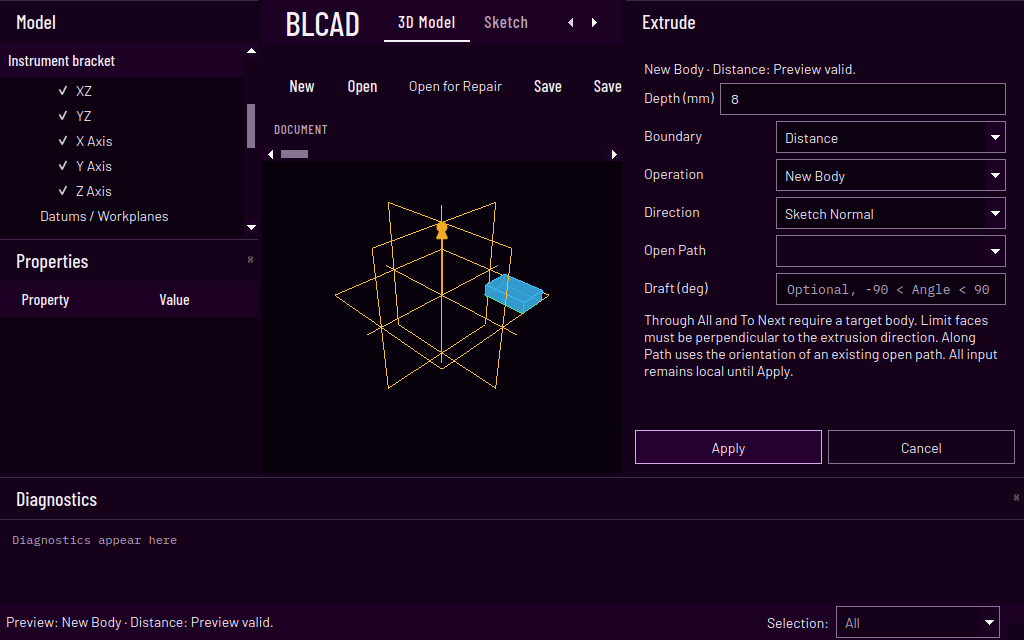
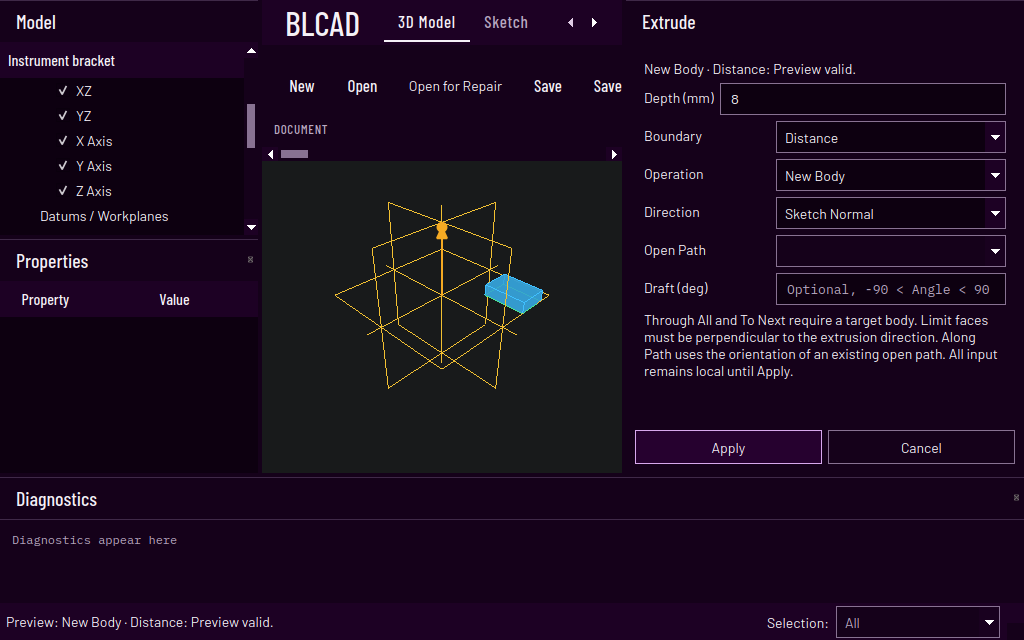
fix(gui): use charcoal gray behind the 3D model
Set the shared native/offscreen canvas background to the requested
#181a1b swatch. Update the existing color contract and native captures.
The sole runtime change is the canvas color constant.

Validation: build all five GUI targets; focused offscreen appearance,
viewport and modeling workflow (10 passed, one expected native-only skip,
879 assertions); native Qt/OCCT (11 cases, 886 assertions); exact rendered
RGB checks on both backends; separate native startup (timeout 124).

Changed region(s): [[0.25, 0.25, 0.625, 0.75]]

diff --git a/include/blcad/gui/gui_appearance.hpp b/include/blcad/gui/gui_appearance.hpp
@@ -14,7 +14,7 @@ inline constexpr QRgb chrome = 0xff1d0124;
 inline constexpr QRgb selection = 0xff26012f;
 inline constexpr QRgb hover = 0xff22012a;
 inline constexpr QRgb disabled_surface = 0xff19011f;
-inline constexpr QRgb canvas = 0xff08000a;
+inline constexpr QRgb canvas = 0xff181a1b;
 inline constexpr QRgb tooltip = 0xff040005;
 inline constexpr QRgb text = 0xfff5f1f7;
 inline constexpr QRgb muted = 0xffb9a9c2;

diff --git a/docs/gui-hermes-design.md b/docs/gui-hermes-design.md
@@ -36,7 +36,8 @@ Block-138 STEP reader remains planned.
 | Accent / checked indicators | Light lavender `#d7a8ed` for readable titles, focus, control edges and checked indicators |
 | Focus | Explicit contrasting outline, independent of hover and selection |
 | Disabled | Muted readable text; arrow cells `#19011f`; existing disabled-state rules |
-| Modeling canvas / tooltips | Solid near-black `#08000a` / `#040005`, retaining distinct CAD geometry/selection colors |
+| Modeling canvas | Solid charcoal gray `#181a1b`, retaining distinct CAD geometry/selection colors |
+| Tooltips | Near-black `#040005` with light text |
 | Startup splash | Original Archimedes artwork, italic white serif title, white progress line/marker and centered `LOADING` on black |
 | Display typography | Bundled Barlow Condensed Medium for identity, navigation and section headings |
 | UI typography | Bundled Barlow Regular/Medium, readable at ordinary CAD control sizes |
@@ -103,9 +104,24 @@ remained unchanged through the final native, scaled, startup and full offscreen 
 `/tmp/blcad-violet-{build-final,gui-full,native,native-150-retry,startup}.log`; the initial sandboxed
 focused log and first scaled attempt are retained separately. Numbered feature status is unchanged.
 
+### Charcoal canvas follow-up (2026-10-27)
+
+The subsequent user swatch changes only the modeling-canvas constant to `#181a1b`; both the native
+OCCT view and offscreen fallback use it. All five GUI-preset targets were rebuilt. The existing
+`[appearance],[gui][viewport],[hermes-design-workflow],[native-viewer-lifecycle]` selection passed
+offscreen (10 cases, 879 assertions; one expected native-only skip) and natively (11 cases,
+886 assertions; no skips). Both rendered previews have exactly RGB `(24, 26, 27)` at the clear canvas
+pixel `(400, 200)`. Updated native captures below were inspected. Separate native startup reached
+the intentional timeout (124), with no High-severity, BadDrawable or BadWindow errors.
+
+The full-suite and scaled evidence above belongs to the initial palette commit `4b9a0b1`; this
+single-color follow-up used focused rendering/viewport checks. Logs are
+`/tmp/blcad-charcoal-{build,offscreen,native,startup}.log`. The 737 files in
+`/tmp/blcad-charcoal-source-freeze.json` remained unchanged during native and startup verification.
+
 Current native feature preview at 1280×800:
 
-![Dark-violet task panels and near-black modeling canvas](images/dark-violet-feature-preview.png)
+![Dark-violet task panels and charcoal-gray modeling canvas](images/dark-violet-feature-preview.png)
 
 The same unchanged layout at 1024×640:
 

diff --git a/docs/gui-modeling-workspace-mvp9.md b/docs/gui-modeling-workspace-mvp9.md
@@ -22,11 +22,11 @@ numeric input, independently of the system display language.
 The Hermes-inspired redesign supplies the existing layout and typography. The 2026-10-27 color-only
 follow-up makes `configure_gui_appearance` use the same dark-violet/black palette in the application
 and GUI acceptance runner. Navigation, panels and inputs use the reference's dark violet tones;
-off-white text and light lavender accents keep controls, selection and focus readable. The near-black
-modeling canvas retains semantic geometry, selection and reference markings. Controls remain square
-with solid fills; widget sizes, spacing and interactions remain unchanged. Native file dialogs are
-disabled so document dialogs follow the same contract. The startup splash is restored to its
-pre-redesign Archimedes artwork, italic white title and centered `LOADING` on black.
+off-white text and light lavender accents keep controls, selection and focus readable. The modeling
+canvas uses charcoal gray (`#181a1b`) and retains semantic geometry, selection and reference markings.
+Controls remain square with solid fills; widget sizes, spacing and interactions remain unchanged.
+Native file dialogs are disabled so document dialogs follow the same contract. The startup splash is
+restored to its pre-redesign Archimedes artwork, italic white title and centered `LOADING` on black.
 
 Bundled Barlow supplies readable body text, Barlow Condensed supplies navigation/section headings,
 and IBM Plex Mono supplies scalar inputs and model readouts. These fonts are registered offline from
